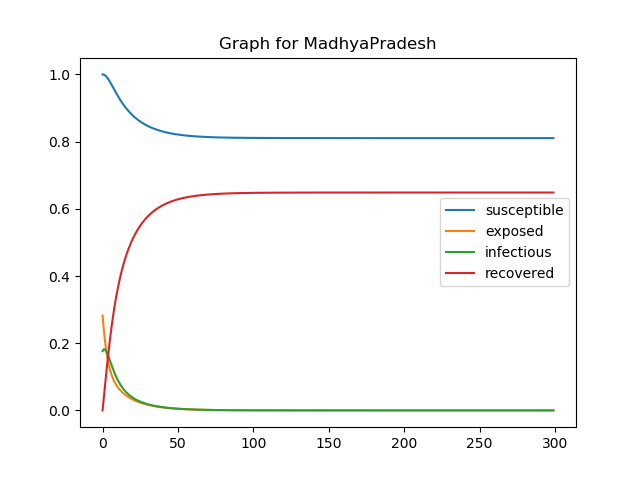
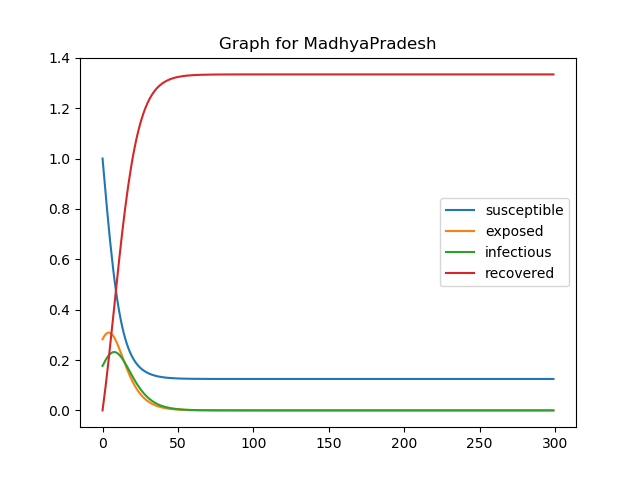
working with almost final version

diff --git a/vectorsolver.py b/vectorsolver.py
@@ -24,10 +24,12 @@ z = 5
 # beta = x*y
 gamma = 1/d
 delta = 1/z
-def calculate_beta(R_value):
-    betaval = R_value * gamma
-    betaval = np.diag(betaval)
-    return betaval
+beta = AvgR0 * gamma
+beta = np.diag(beta)
+# def calculate_beta(R_value):
+#     betaval = R_value * gamma
+#     betaval = np.diag(betaval)
+#     return betaval
 
 # R0_vec = beta/gamma
 
@@ -43,8 +45,8 @@ def derivative_fun(all_vectors, t0):
     E = all_vectors[4:8]
     I = all_vectors[8:12]
     R = all_vectors[12:]
-    beta = calculate_beta(R)
-    print(beta)
+    # beta = calculate_beta(R)
+    # print(beta)
     dsdt = (-1) * np.matmul(beta, S*I)
     dedt = np.matmul(beta, S*I) - delta* E
     didt = delta* E - gamma*I
